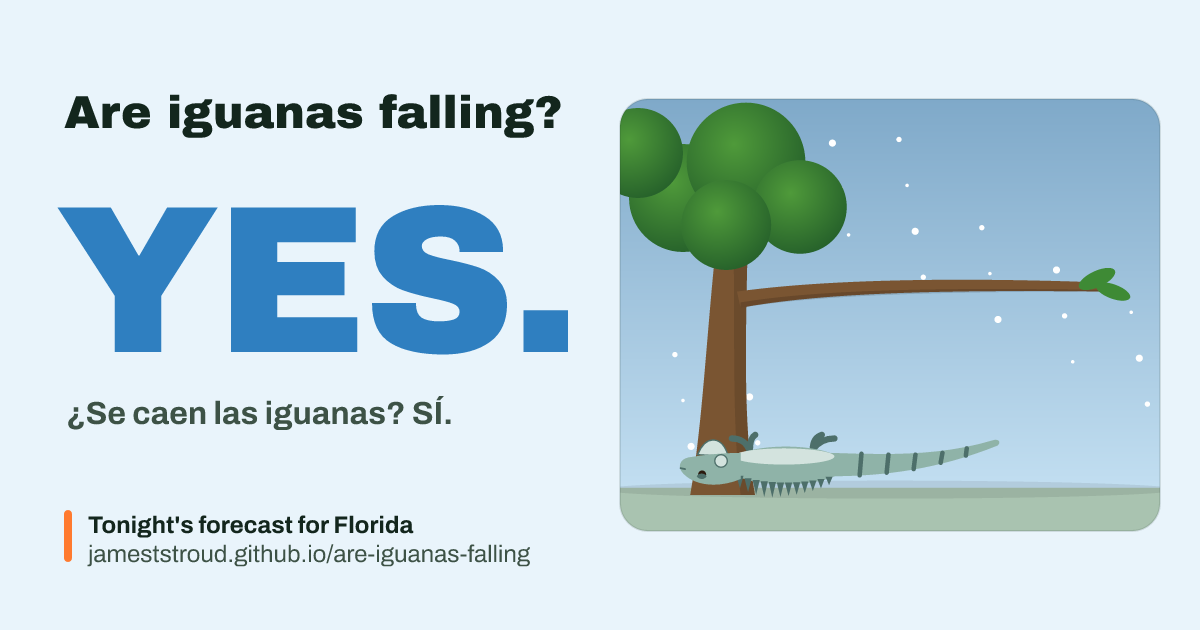
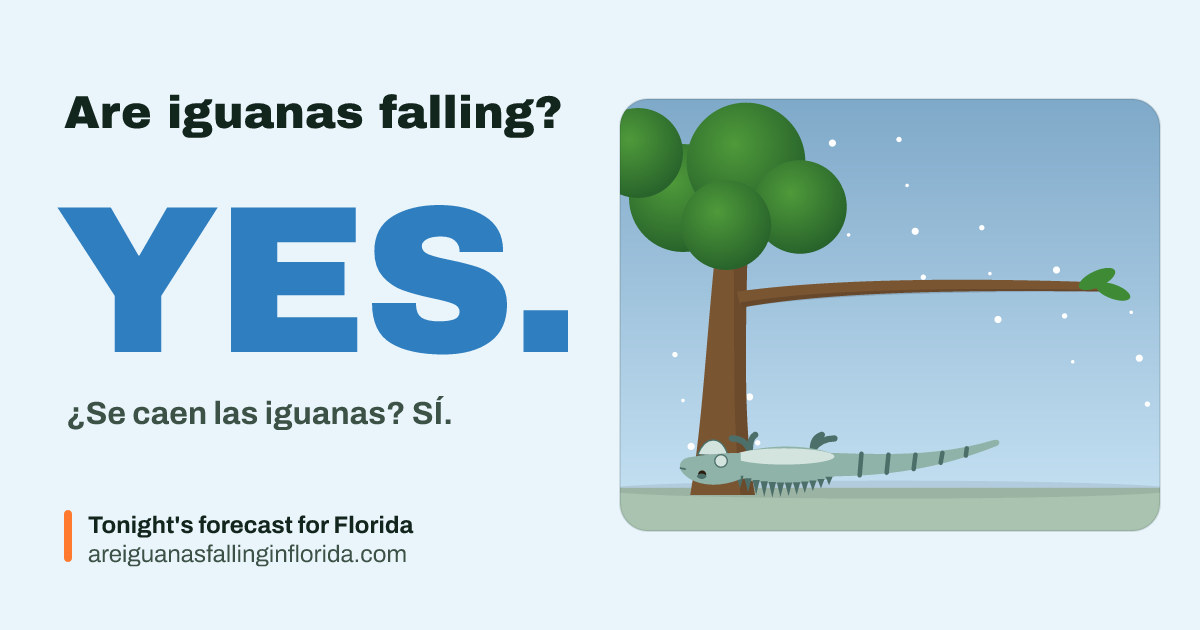
Move all links to www.areiguanasfallinginflorida.com
Canonical and og:/twitter: URLs on every page, the share image and
share text, Bluesky post links, the script's User-Agent, the iNaturalist
project text and the README now use the custom domain. Link-preview
cards and press graphics re-rendered with the new address.

Daily schedule: the forecast job now runs once a day at 20:43 UTC
(3:43 PM in Florida in winter); the page treats status.json as stale
only after 26 hours instead of 3.

Claude-Session: https://claude.ai/code/session_01BJfhjdW6oXiMjYnawmeGth

Changed region(s): [[0.0617, 0.8444, 0.4625, 0.9048]]

diff --git a/index.html b/index.html
@@ -5,15 +5,15 @@
 <meta name="viewport" content="width=device-width,initial-scale=1">
 <title>Are Iguanas Falling?</title>
 <meta name="description" content="Will it be cold enough tonight for iguanas to fall out of the trees in Florida? A live forecast from the Stroud Lab at Georgia Tech.">
-<link rel="canonical" href="https://jameststroud.github.io/are-iguanas-falling/">
+<link rel="canonical" href="https://www.areiguanasfallinginflorida.com/">
 <link rel="icon" href="favicon.svg" type="image/svg+xml">
 <link rel="apple-touch-icon" href="apple-touch-icon.png">
 <meta property="og:type" content="website">
 <meta property="og:site_name" content="Are iguanas falling?">
 <meta property="og:title" content="Are iguanas falling?">
 <meta property="og:description" content="Is it cold enough tonight for iguanas to fall out of the trees in Florida? A live YES or NO forecast from the Stroud Lab at Georgia Tech.">
-<meta property="og:url" content="https://jameststroud.github.io/are-iguanas-falling/">
-<meta property="og:image" content="https://jameststroud.github.io/are-iguanas-falling/og-image.png">
+<meta property="og:url" content="https://www.areiguanasfallinginflorida.com/">
+<meta property="og:image" content="https://www.areiguanasfallinginflorida.com/og-image.png">
 <meta property="og:image:type" content="image/png">
 <meta property="og:image:width" content="1200">
 <meta property="og:image:height" content="630">
@@ -21,7 +21,7 @@
 <meta name="twitter:card" content="summary_large_image">
 <meta name="twitter:title" content="Are iguanas falling?">
 <meta name="twitter:description" content="Is it cold enough tonight for iguanas to fall out of the trees in Florida? A live YES or NO forecast from the Stroud Lab at Georgia Tech.">
-<meta name="twitter:image" content="https://jameststroud.github.io/are-iguanas-falling/og-image.png">
+<meta name="twitter:image" content="https://www.areiguanasfallinginflorida.com/og-image.png">
 <link rel="preconnect" href="https://fonts.googleapis.com">
 <link href="https://fonts.googleapis.com/css2?family=Archivo+Black&family=Archivo:wght@400;600;700&display=swap" rel="stylesheet">
 <link rel="stylesheet" href="assets/site.css?v=20261117a">
@@ -422,7 +422,7 @@ function setScene(t,replay,quiet){
 }
 /* ===== Temperature map =====
    Land is coloured by the forecast overnight low, interpolated (inverse-distance weighting
-   in map space) between the hourly job's forecast grid in status.json, or between the
+   in map space) between the daily job's forecast grid in status.json, or between the
    8 cities if the grid is missing. 44°F and below is one blue class (darker = colder);
    above that a sequential ramp runs from pale cream at 45°F to deep orange at 80°F. */
 const COLD_STOPS=[[30,"#163f78"],[37,"#2563ab"],[44,"#3f86d1"]];
@@ -516,7 +516,7 @@ function show(rows,note){
   $("share").hidden=liveNote==="map_sample";
   const c=shownCity();setScene(Math.round(c.min));
 }
-/* ===== Reported falls (falls.json, written by the hourly job) =====
+/* ===== Reported falls (falls.json, written by the daily job) =====
    The counter and the markers come from the same file, so they always agree.
    Obscured and private iNaturalist records are never in the file; they only add to "hidden". */
 const fmtDay=d=>{try{return new Date(d+"T12:00:00").toLocaleDateString(window.getLang()==="es"?"es-US":"en-US",{month:"long",day:"numeric",year:"numeric"});}catch(e){return d;}};
@@ -553,8 +553,9 @@ async function loadFalls(){
     words();drawFalls();return true;
   }catch(e){return false;}
 }
-/* status.json older than this is treated as stale: fetch the forecast directly instead */
-const STALE_MS=3*60*60*1000;
+/* status.json is written once a day; older than this (a missed daily run) counts as stale,
+   and the page fetches the forecast directly instead */
+const STALE_MS=26*60*60*1000;
 async function load(){
   let stale=null;
   try{const r=await fetch("status.json",{cache:"no-store"});if(!r.ok)throw 0;const j=await r.json();
@@ -574,7 +575,7 @@ async function load(){
 
 /* ===== Share tonight's answer =====
    Always shares the real forecast (live), never the what-if slider value. */
-const SITE="https://jameststroud.github.io/are-iguanas-falling/";
+const SITE="https://www.areiguanasfallinginflorida.com/";
 const PAL={warm:{"--sky1":"#ffd27a","--sky2":"#8fd3ef","--ground":"#7cb342","--ig":"#6fb53a","--ig2":"#3d7a22","--belly":"#c4df82"},
            chilly:{"--sky1":"#ffe9b8","--sky2":"#a9cfe2","--ground":"#7cb342","--ig":"#7fae55","--ig2":"#456f30","--belly":"#cbdc9f"},
            cold:{"--sky1":"#c9e4f5","--sky2":"#7fa9c9","--ground":"#a9c3b0","--ig":"#86b8d8","--ig2":"#3a6a8e","--belly":"#e2f2fc"}};
@@ -632,7 +633,7 @@ async function makeShareImage(a){
   g.drawImage(im,0,Math.max(0,450-sh),600,sh,M,top,W-2*M,h);g.restore();
   const date=new Date().toLocaleDateString(window.getLang()==="es"?"es-US":"en-US",{weekday:"long",month:"long",day:"numeric",year:"numeric"});
   g.fillStyle=ink;g.font='700 36px Archivo, sans-serif';g.fillText(date,M,H-92);
-  g.fillStyle=soft;g.font='400 32px Archivo, sans-serif';g.fillText(SITE.replace("https://","").replace(/\/$/,""),M,H-46);
+  g.fillStyle=soft;g.font='400 32px Archivo, sans-serif';g.fillText(SITE.replace("https://","").replace("www.","").replace(/\/$/,""),M,H-46);
   return new Promise(ok=>cv.toBlob(b=>ok(b),"image/png"));
 }
 function shareText(a){return window.t(a.yes?"share_text_yes":a.city?"share_text_no_city":"share_text_no",{c:a.c,t:a.t,u:SITE});}

diff --git a/classroom.html b/classroom.html
@@ -5,15 +5,15 @@
 <meta name="viewport" content="width=device-width,initial-scale=1">
 <title>Classroom | Are Iguanas Falling?</title>
 <meta name="description" content="A free interactive lesson on ectotherms and cold tolerance for middle and high school, in English and Spanish, with a printable teacher guide. From the Stroud Lab at Georgia Tech.">
-<link rel="canonical" href="https://jameststroud.github.io/are-iguanas-falling/classroom.html">
+<link rel="canonical" href="https://www.areiguanasfallinginflorida.com/classroom.html">
 <link rel="icon" href="favicon.svg" type="image/svg+xml">
 <link rel="apple-touch-icon" href="apple-touch-icon.png">
 <meta property="og:type" content="website">
 <meta property="og:site_name" content="Are iguanas falling?">
 <meta property="og:title" content="Classroom: Cold-blooded? Cold-stunned! | Are iguanas falling?">
 <meta property="og:description" content="Free interactive lesson on ectotherms, thermal inertia and cold tolerance, with real data from a Miami cold snap. English and Spanish, printable teacher guide.">
-<meta property="og:url" content="https://jameststroud.github.io/are-iguanas-falling/classroom.html">
-<meta property="og:image" content="https://jameststroud.github.io/are-iguanas-falling/og-image.png">
+<meta property="og:url" content="https://www.areiguanasfallinginflorida.com/classroom.html">
+<meta property="og:image" content="https://www.areiguanasfallinginflorida.com/og-image.png">
 <meta property="og:image:type" content="image/png">
 <meta property="og:image:width" content="1200">
 <meta property="og:image:height" content="630">
@@ -21,7 +21,7 @@
 <meta name="twitter:card" content="summary_large_image">
 <meta name="twitter:title" content="Classroom: Cold-blooded? Cold-stunned! | Are iguanas falling?">
 <meta name="twitter:description" content="Free interactive lesson on ectotherms, thermal inertia and cold tolerance, with real data from a Miami cold snap.">
-<meta name="twitter:image" content="https://jameststroud.github.io/are-iguanas-falling/og-image.png">
+<meta name="twitter:image" content="https://www.areiguanasfallinginflorida.com/og-image.png">
 <link rel="preconnect" href="https://fonts.googleapis.com">
 <link href="https://fonts.googleapis.com/css2?family=Archivo+Black&family=Archivo:wght@400;600;700&display=swap" rel="stylesheet">
 <link rel="stylesheet" href="assets/site.css?v=20261117a">

diff --git a/press.html b/press.html
@@ -5,15 +5,15 @@
 <meta name="viewport" content="width=device-width,initial-scale=1">
 <title>Press &amp; contact | Are Iguanas Falling?</title>
 <meta name="description" content="Press and media contact for Are Iguanas Falling? and the Stroud Lab at Georgia Tech: contacts, coverage, story angles, key facts with citations, bio and downloadable graphics.">
-<link rel="canonical" href="https://jameststroud.github.io/are-iguanas-falling/press.html">
+<link rel="canonical" href="https://www.areiguanasfallinginflorida.com/press.html">
 <link rel="icon" href="favicon.svg" type="image/svg+xml">
 <link rel="apple-touch-icon" href="apple-touch-icon.png">
 <meta property="og:type" content="website">
 <meta property="og:site_name" content="Are iguanas falling?">
 <meta property="og:title" content="Press &amp; contact | Are iguanas falling?">
 <meta property="og:description" content="Story angles, key facts, bio and graphics about falling iguanas and the science of Florida cold snaps.">
-<meta property="og:url" content="https://jameststroud.github.io/are-iguanas-falling/press.html">
-<meta property="og:image" content="https://jameststroud.github.io/are-iguanas-falling/og-image.png">
+<meta property="og:url" content="https://www.areiguanasfallinginflorida.com/press.html">
+<meta property="og:image" content="https://www.areiguanasfallinginflorida.com/og-image.png">
 <meta property="og:image:type" content="image/png">
 <meta property="og:image:width" content="1200">
 <meta property="og:image:height" content="630">
@@ -21,7 +21,7 @@
 <meta name="twitter:card" content="summary_large_image">
 <meta name="twitter:title" content="Press &amp; contact | Are iguanas falling?">
 <meta name="twitter:description" content="Story angles, key facts, bio and graphics about falling iguanas and the science of Florida cold snaps.">
-<meta name="twitter:image" content="https://jameststroud.github.io/are-iguanas-falling/og-image.png">
+<meta name="twitter:image" content="https://www.areiguanasfallinginflorida.com/og-image.png">
 <link rel="preconnect" href="https://fonts.googleapis.com">
 <link href="https://fonts.googleapis.com/css2?family=Archivo+Black&family=Archivo:wght@400;600;700&display=swap" rel="stylesheet">
 <link rel="stylesheet" href="assets/site.css?v=20261117a">

diff --git a/who.html b/who.html
@@ -5,15 +5,15 @@
 <meta name="viewport" content="width=device-width,initial-scale=1">
 <title>Who Are We? | Are Iguanas Falling?</title>
 <meta name="description" content="The Stroud Lab at Georgia Tech: who we are and what we study.">
-<link rel="canonical" href="https://jameststroud.github.io/are-iguanas-falling/who.html">
+<link rel="canonical" href="https://www.areiguanasfallinginflorida.com/who.html">
 <link rel="icon" href="favicon.svg" type="image/svg+xml">
 <link rel="apple-touch-icon" href="apple-touch-icon.png">
 <meta property="og:type" content="website">
 <meta property="og:site_name" content="Are iguanas falling?">
 <meta property="og:title" content="Who are we? | Are iguanas falling?">
 <meta property="og:description" content="The Stroud Lab at Georgia Tech: who we are and what we study.">
-<meta property="og:url" content="https://jameststroud.github.io/are-iguanas-falling/who.html">
-<meta property="og:image" content="https://jameststroud.github.io/are-iguanas-falling/og-image.png">
+<meta property="og:url" content="https://www.areiguanasfallinginflorida.com/who.html">
+<meta property="og:image" content="https://www.areiguanasfallinginflorida.com/og-image.png">
 <meta property="og:image:type" content="image/png">
 <meta property="og:image:width" content="1200">
 <meta property="og:image:height" content="630">
@@ -21,7 +21,7 @@
 <meta name="twitter:card" content="summary_large_image">
 <meta name="twitter:title" content="Who are we? | Are iguanas falling?">
 <meta name="twitter:description" content="The Stroud Lab at Georgia Tech: who we are and what we study.">
-<meta name="twitter:image" content="https://jameststroud.github.io/are-iguanas-falling/og-image.png">
+<meta name="twitter:image" content="https://www.areiguanasfallinginflorida.com/og-image.png">
 <link rel="preconnect" href="https://fonts.googleapis.com">
 <link href="https://fonts.googleapis.com/css2?family=Archivo+Black&family=Archivo:wght@400;600;700&display=swap" rel="stylesheet">
 <link rel="stylesheet" href="assets/site.css?v=20261117a">

diff --git a/scripts/update_forecast.py b/scripts/update_forecast.py
@@ -1,6 +1,6 @@
 """Fetch overnight lows for Florida cities and write status.json.
 
-Run hourly by GitHub Actions. The website reads status.json, so no matter
+Run once a day (mid-afternoon in Florida) by GitHub Actions. The website reads status.json, so no matter
 how many people visit, the weather API only sees 24 requests a day.
 
 Nothing is allowed to fail the run. Open-Meteo calls are retried with a
@@ -28,11 +28,11 @@ ROOT = Path(__file__).resolve().parent.parent
 STATUS = ROOT / "status.json"
 FALLS = ROOT / "falls.json"
 PER_PAGE = 200   # iNaturalist's maximum page size
-MAX_PAGES = 25   # 5,000 reports; keeps the hourly job well under 2 minutes
+MAX_PAGES = 25   # 5,000 reports; keeps the job well under 2 minutes
 INAT_PROJECT = "are-iguanas-falling"  # iNaturalist project slug
-USER_AGENT = "are-iguanas-falling/1.0 (Stroud Lab, Georgia Tech; https://jameststroud.github.io/are-iguanas-falling/)"
+USER_AGENT = "are-iguanas-falling/1.0 (Stroud Lab, Georgia Tech; https://www.areiguanasfallinginflorida.com/)"
 
-SITE_URL = "https://jameststroud.github.io/are-iguanas-falling/"
+SITE_URL = "https://www.areiguanasfallinginflorida.com/"
 BSKY_HOST = "https://bsky.social"
 POST_GAP = timedelta(hours=12)  # never post more often than this
 

diff --git a/scripts/make_og.py b/scripts/make_og.py
@@ -22,7 +22,7 @@ from pathlib import Path
 
 ROOT = Path(__file__).resolve().parent.parent
 FONTS = [str(p) for p in (Path(__file__).parent / "fonts").glob("*.ttf")]
-URL_TEXT = "jameststroud.github.io/are-iguanas-falling"
+URL_TEXT = "areiguanasfallinginflorida.com"
 
 # Colours from index.html: warm (NO) and cold (YES) palettes
 WARM = dict(sky1="#ffd27a", sky2="#8fd3ef", ground="#7cb342", ig="#6fb53a", ig2="#3d7a22", belly="#c4df82")

diff --git a/README.md b/README.md
@@ -20,10 +20,10 @@ From the Stroud Lab at Georgia Tech.
 | `animations/` | Three reserve animations (field guide, thermal camera, night silhouette). Not linked from the site; visit `/animations/` to see them |
 | `scripts/update_forecast.py` | Pulls overnight lows (Open-Meteo) and this winter's iNaturalist reports, writes `status.json` and `falls.json`, swaps the preview image, posts to Bluesky on a NO→YES flip |
 | `falls.json` | This winter's fallen-iguana reports for the map: total count, number hidden for privacy, and public points (2-decimal coordinates, date, observation link) |
-| `.github/workflows/update.yml` | Runs that script every hour |
+| `.github/workflows/update.yml` | Runs that script once a day, at 20:43 UTC (3:43 PM in Florida in winter, 4:43 PM in summer). Change the `cron` line to change the time; run it by hand any time from the Actions tab |
 | `inaturalist-description.md` | Text to paste into the iNaturalist project. Not used by the site |
 | `og-yes.png`, `og-no.png` | 1200×630 link-preview cards (what Bluesky, X, iMessage etc. show) |
-| `og-image.png` | The card the pages actually point to. The hourly job copies the YES or NO card here whenever the answer changes |
+| `og-image.png` | The card the pages actually point to. The daily job copies the YES or NO card here whenever the answer changes |
 | `favicon.svg`, `apple-touch-icon.png` | Browser-tab and phone home-screen icons |
 | `scripts/make_og.py` | Redraws the preview cards and icons. Only needed if you change the artwork or wording (see below) |
 | `scripts/fonts/` | Archivo and Archivo Black (SIL Open Font License), used by `make_og.py` |
@@ -58,7 +58,7 @@ Every page loads `assets/site.css`, `assets/i18n.js` and `assets/analytics.js` w
 
 ## Temperature map
 
-The Florida map on the home page is coloured by the forecast overnight low. Each hour the job also fetches the low for 118 forecast points across the state (`GRID` in `scripts/update_forecast.py`, 2 extra Open-Meteo calls) and stores them as `grid` in `status.json`. The page interpolates between those points (inverse-distance weighting), clips the result to the Florida outline, and draws:
+The Florida map on the home page is coloured by the forecast overnight low. Each day the job also fetches the low for 118 forecast points across the state (`GRID` in `scripts/update_forecast.py`, 2 extra Open-Meteo calls) and stores them as `grid` in `status.json`. The page interpolates between those points (inverse-distance weighting), clips the result to the Florida outline, and draws:
 
 - **44°F and below** as one blue class (darker = colder), outlined in white;
 - **above 44°F** as a ramp from pale cream (45°F) to deep orange (80°F), with a vertical scale bar to the right of the map;
@@ -71,7 +71,7 @@ If the grid fetch fails, the page colours the map from the 8 cities instead.
 
 ## Map of reported falls
 
-Each hour the job fetches this winter's observations (since 1 November) from the iNaturalist project, 200 per page with a 1-second pause between pages, and writes `falls.json`. Obscured and private records (by the observer or because of the taxon) are never written with coordinates; they only add to the count. Public coordinates are rounded to 2 decimals (about 1 km).
+Each day the job fetches this winter's observations (since 1 November) from the iNaturalist project, 200 per page with a 1-second pause between pages, and writes `falls.json`. Obscured and private records (by the observer or because of the taxon) are never written with coordinates; they only add to the count. Public coordinates are rounded to 2 decimals (about 1 km).
 
 On the home page each report is a small dark diamond on the Florida map (city forecasts stay round dots). Tapping one shows its date and a link to the observation. The counter and the markers both read `falls.json`, so they always agree, and a note under the map says how many reports are hidden for privacy. With no reports, there are no markers and no "Reported fall" legend entry.
 
@@ -106,7 +106,7 @@ To count another button or link, add `data-track="some-name"` to it.
 
 ## Cold-snap posts on Bluesky
 
-When the answer flips from NO to YES, the hourly job posts to the lab's Bluesky account: an English post with the YES card attached, and a Spanish reply. It posts at most once every 12 hours and never posts an "all clear". The wording is in `post_texts()` in `scripts/update_forecast.py`.
+When the answer flips from NO to YES, the daily job posts to the lab's Bluesky account: an English post with the YES card attached, and a Spanish reply. It posts at most once every 12 hours and never posts an "all clear". The wording is in `post_texts()` in `scripts/update_forecast.py`.
 
 **Setting it up**
 
@@ -145,7 +145,7 @@ and commit the new PNGs. If you redraw the iguana in `index.html`, copy the new 
 2. Settings → Pages → Build and deployment → Deploy from a branch → `main` / `(root)` → Save.
 3. Settings → Actions → General → Workflow permissions → **Read and write permissions** → Save.
 4. Actions tab → "Update iguana forecast" → Run workflow. This creates the first `status.json`.
-5. The site appears at https://jameststroud.github.io/are-iguanas-falling/ within a few minutes.
+5. The site appears at https://www.areiguanasfallinginflorida.com/ within a few minutes.
 6. Custom domain later: Settings → Pages → Custom domain, then point your DNS at GitHub Pages.
 
 ## Upload note

diff --git a/inaturalist-description.md b/inaturalist-description.md
@@ -19,7 +19,7 @@ For us, each of these nights is a natural experiment. Green iguanas are native t
 3. Record the time you found it, and whether it was on the ground, in water, or still in the tree.
 4. Leave it where it is. It will warm up and walk away (and a warmed-up, annoyed iguana in your car is a whole new problem).
 
-Check tonight's forecast at https://jameststroud.github.io/are-iguanas-falling/
+Check tonight's forecast at https://www.areiguanasfallinginflorida.com/
 
 This project is run by the Stroud Lab at Georgia Tech, where we study how lizards evolve in the wild: https://www.thestroudlab.com
 
